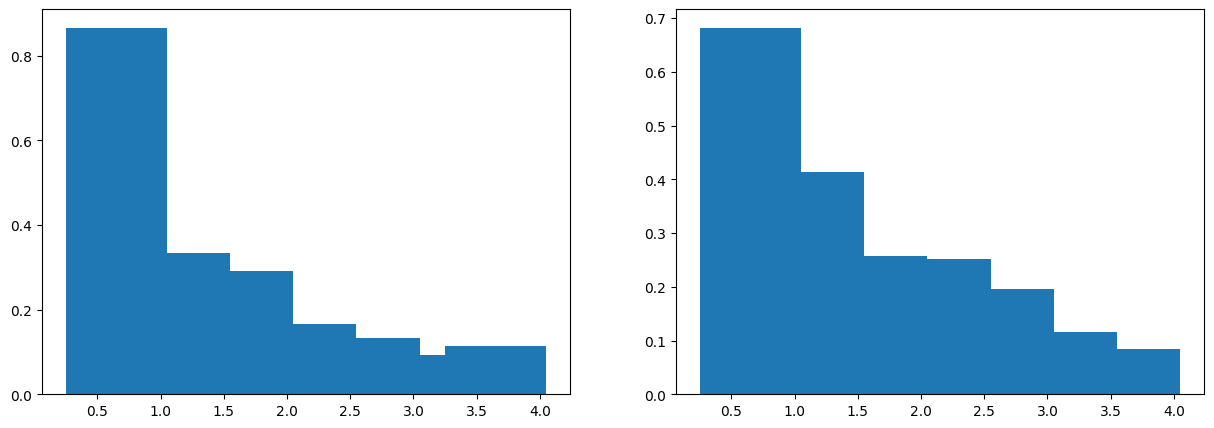
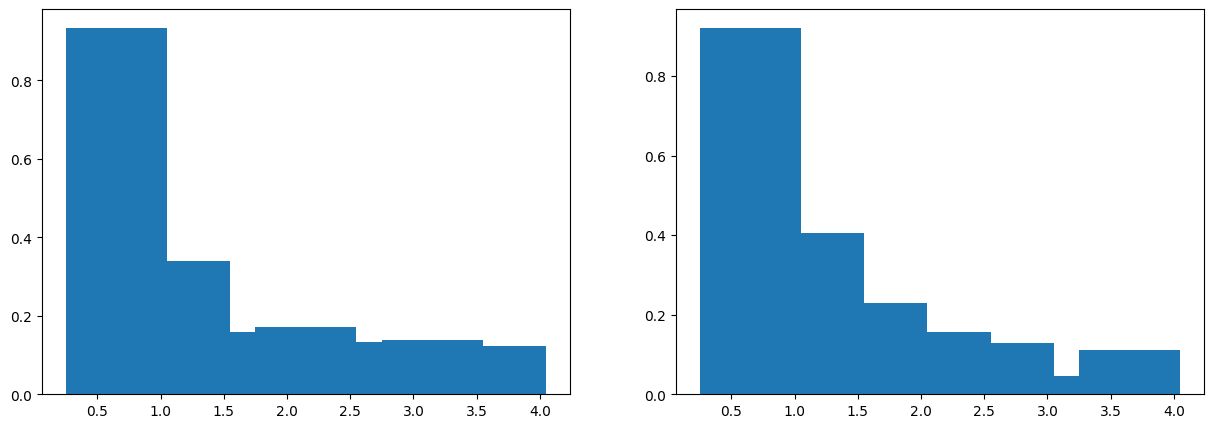
Improve rendering

diff --git a/src/rl_pipeline/run_experiment.py b/src/rl_pipeline/run_experiment.py
@@ -14,90 +14,4 @@ if __name__ == "__main__":
     env = InterferometerEnv(num_agents=num_agents)
     agents = [SGD_Agent(num_actions=env.num_nodes, 
                         agent_id=env.possible_agents[i]) for i in range(num_agents)]
-    train_SGD_agents(env, agents, num_episodes=2000, agent_ids=env.possible_agents)
-
-"""
-env = InterferometerEnv(render_mode="human")
-env.reset(seed=42)
-
-## TESTS:
-#api_test(InterferometerEnv(), num_cycles=1000, verbose_progress=False)
-#seed_test(InterferometerEnv, num_cycles=10)
-#render_test(InterferometerEnv)
-
-for agent in env.agent_iter():
-    observation, reward, termination, truncation, info = env.last()
-
-    if termination or truncation:
-        action = None
-    else:
-        if "action_mask" in info:
-            mask = info["action_mask"]
-        elif isinstance(observation, dict) and "action_mask" in observation:
-            mask = observation["action_mask"]
-        else:
-            mask = None
-        action = env.action_space(agent).sample(mask)
-
-
-    # if termination or truncation:
-    #     action = None
-    # else:
-    #     # this is where you would insert your policy
-    #     action = env.action_space(agent).sample()
-
-    env.step(action)
-    env.render()
-env.close()
-"""
-
-"""
-# Create the SKA environment
-env = InterferometerEnv()
-
-# Reset the environment to get initial observations
-observations = env.reset()
-
-# Define a simple random agent
-class RandomAgent:
-    def __init__(self, action_space):
-        self.action_space = action_space
-
-    def choose_action(self):
-        return self.action_space.sample()
-    
-# Define a simple SGD learner
-class SGDAgent:
-    def __init__(self, action_space):
-        self.action_space = action_space
-
-    def choose_action(self, available_nodes):
-        return np.random.choice(available_nodes)
-
-# Create an SGD learner for the player
-learner = SGDAgent(env.action_space)
-
-# Create random agents for each player
-agents = {i: RandomAgent(env.action_space) for i in range(env.num_agents)}
-
-# Run a few episodes
-for episode in range(3):
-    print(f"Episode {episode + 1}")
-
-    while True:
-        # Each agent chooses an action
-        actions = {i: agents[i].choose_action() for i in range(env.num_agents)}
-
-        # Take a step in the environment
-        observations, rewards, done, _ = env.step(actions)
-
-        # Print the current state
-        print("Observations:", observations)
-        print("Rewards:", rewards)
-
-        env.render()
-
-        # Check if all agents are done
-        if done:
-            break
-"""
+    train_SGD_agents(env, agents, num_episodes=10, agent_ids=env.possible_agents)

diff --git a/src/rl_pipeline/ska_env.py b/src/rl_pipeline/ska_env.py
@@ -74,9 +74,11 @@ class InterferometerEnv(AECEnv):
             agent: MultiDiscrete([self.num_nodes for n in range(self.num_nodes+1)]) for agent in self.possible_agents
         } # This is the allocation of all nodes, which can be allocated to any of n agents
         self.alloc = np.array([None for _ in range(self.num_nodes)]) # Allocated node list to use in baseline_dists calculation 
+
         self.render_mode = render_mode
         self.hists = None # Save histograms of baseline distances for rendering
         self.bin_centers = (np.array([n/2 for n in range(8)][:-1]) + np.array([n/2 for n in range(8)][1:])) / 2
+        #self.canvas = np.ones(self.observation_shape) * 1 
 
     # lru_cache allows observation and action spaces to be memoized, reducing clock cycles required to get each agent's space.
     # If your spaces change over time, remove this line (disable caching).
@@ -202,6 +204,7 @@ class InterferometerEnv(AECEnv):
 
         #plt.legend()
         plt.savefig(r'src\rl_pipeline\SKA_allocation.png', bbox_inches='tight')
+        plt.close()
 
         if self.hists != None:
             fig, axes = plt.subplots(1, self.num_agents, figsize=(15, 5))
@@ -209,6 +212,7 @@ class InterferometerEnv(AECEnv):
                 axes[i].bar(self.bin_centers, self.hists[i], align='edge')
 
             fig.savefig(r'src\rl_pipeline\SKA_histograms.png', bbox_inches='tight')
+            plt.close()
         
         return
 

diff --git a/src/rl_pipeline/sgd.py b/src/rl_pipeline/sgd.py
@@ -8,14 +8,15 @@ def train_SGD_agents(env, agents, num_episodes, agent_ids):
 
         while not all(done):
             for i in range(num_agents):
-                for _ in range(env.num_steps):
+                for step in range(env.num_steps):
                     action = agents[i].select_action(states[agent_ids[i]]) # Problem with states
                     next_state, reward, done[i], _ = env.step(action)
                     agents[i].update_weights(states[agent_ids[i]], action, reward)
                     states[agent_ids[i]] = next_state
                     total_rewards[i] += list(reward.values())[i]
                 
-            if episode % 100 == 0:
-                env.render()
+                    if step % 20 == 0:
+                        env.render()
+        env.close()
 
         print(f"Episode {episode+1}/{num_episodes}, Total Rewards: {total_rewards}")
